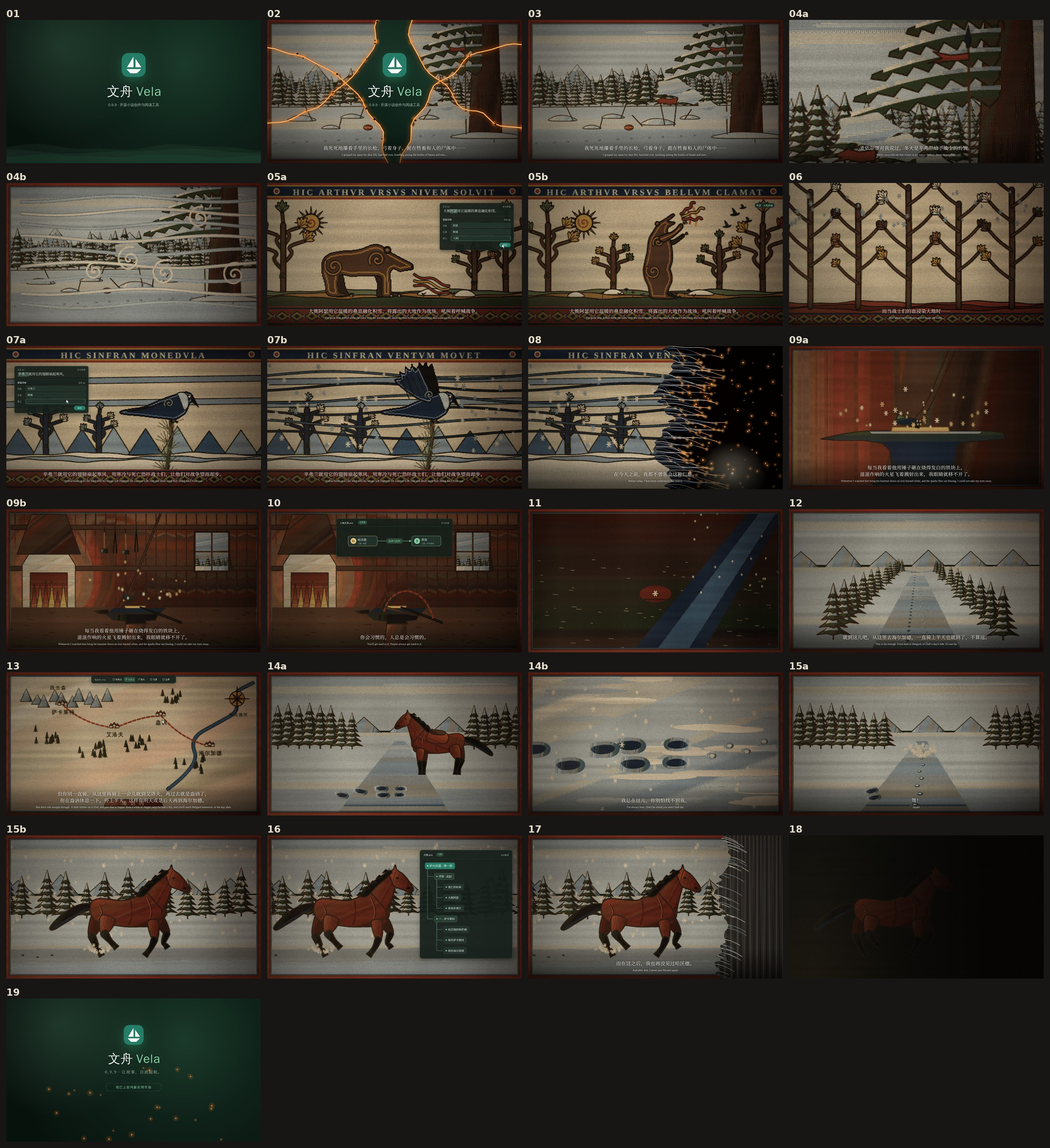
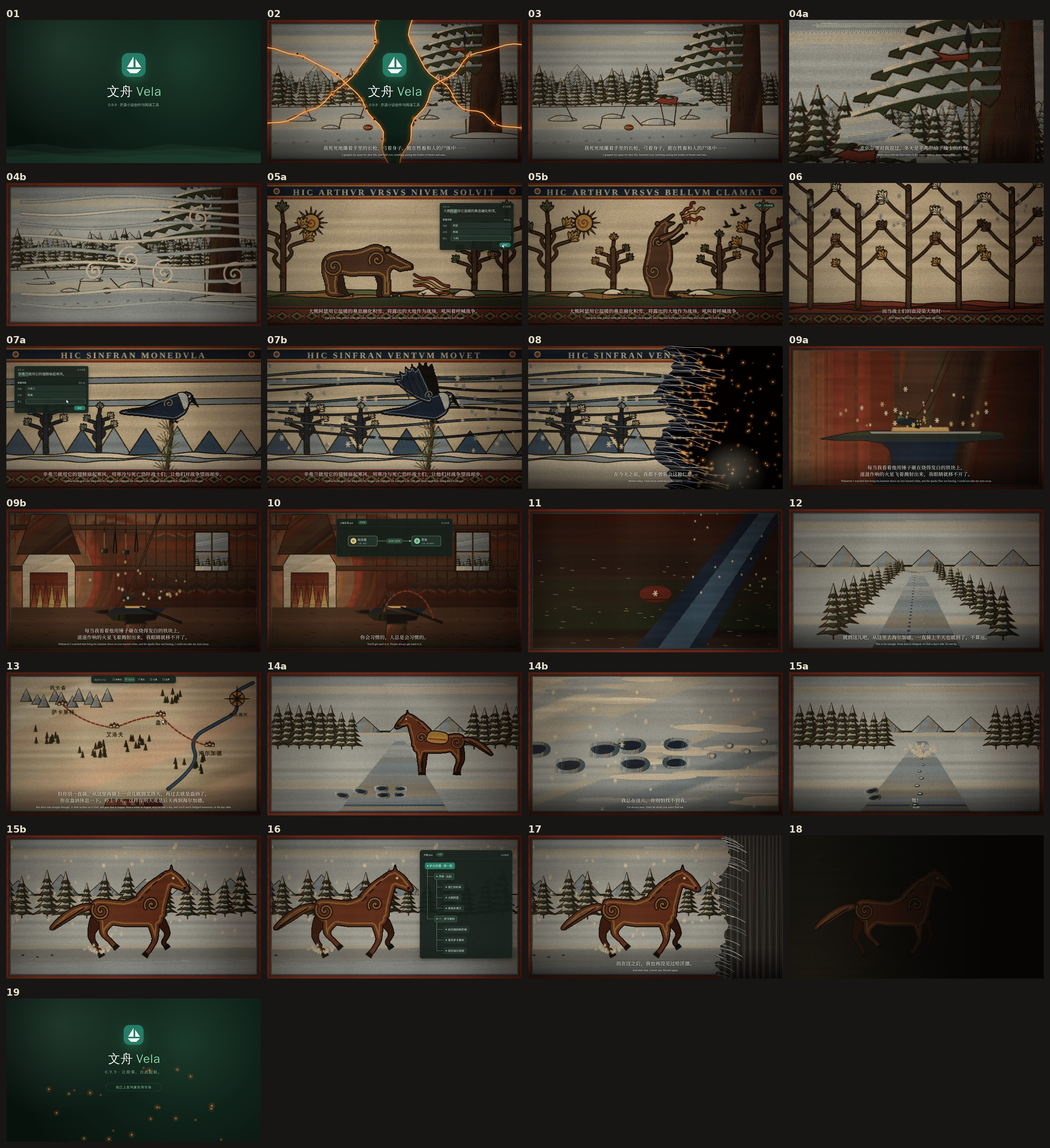
0.9.9 故事板：皮培按大熊阿瑟的织法抽象化
一整块枣红色剪影，深色勾边，赭黄内轮廓线，肩胯螺旋纹，远侧两腿织深色；
姿势不变。

Claude-Session: https://claude.ai/code/session_01KMfehctGQiHyA7uwHv9GKQ

diff --git a/promo/0.9.9/storyboard/frames.js b/promo/0.9.9/storyboard/frames.js
@@ -232,20 +232,23 @@ const GAITS={
   gallop:{farF:[[188,-196,232,-122,212,-70,224,-52],[52,32,24,22]],farH:[[-150,-214,-192,-110,-158,-36,-142,-8],[74,38,26,24]],nearF:[[152,-186,164,-92,142,-40,118,-8],[58,34,26,24]],nearH:[[-96,-206,-124,-124,-86,-76,-62,-50],[84,40,26,24]]},
   stand:{farF:[[124,-186,120,-92,124,-40,126,-6],[50,32,24,22]],farH:[[-148,-212,-178,-108,-156,-40,-152,-6],[72,38,26,24]],nearF:[[152,-186,158,-92,154,-40,152,-6],[58,34,26,24]],nearH:[[-110,-210,-150,-112,-130,-40,-126,-6],[84,40,26,24]]},
 };
-function pipeLeg([p,w],far){const ramp=far?[DYE.bay,DYE.bayD,DYE.umber]:R.bay;mshape(limbPts(p.slice(0,4),w.slice(0,2)),ramp,{ang:.2});mshape(limbPts(p.slice(2),w.slice(1)),R.black,{ang:.2});
-  const n=p.length,x=p[n-2],y=p[n-1],dx=x-p[n-4],dy=y-p[n-3],l=Math.hypot(dx,dy),ux=dx/l,uy=dy/l,h=w[3]*.6;mshape([x-uy*h,y+ux*h,x+uy*h,y-ux*h,x+ux*18+uy*h*1.2,y+uy*18-ux*h*1.2,x+ux*18-uy*h*1.2,y+uy*18+ux*h*1.2],R.black,{poly:true,lw:4});}
-function pipe(x,y,s,{face=1,gait='gallop',saddle=true,bridle=true}={}){at(x,y,s,face,()=>{const G=GAITS[gait];
-  pipeLeg(G.farF,1);pipeLeg(G.farH,1);
-  mshape(PIPE.tail,R.black,{ang:.6});for(let i=0;i<4;i++)wline([-210-i*10,-262+i*6,-300-i*14,-214+i*10,-390-i*6,-160+i*8],DYE.indigo,4);
-  mshape(PIPE.neck,R.bay,{ang:.5});mshape(PIPE.head,R.bay,{ang:.3});mshape(PIPE.barrel,R.bay,{ang:1.2,bias:-.05});
-  mfold([-150,-280,-120,-240,-150,-196],DYE.bayD,DYE.bayL);mfold([120,-320,150,-260,140,-200],DYE.bayD,DYE.bayL);mfold([30,-300,40,-230,20,-170],DYE.bayD);
-  mshape(PIPE.mane,R.black,{ang:.6});for(let i=0;i<5;i++){const k=i/4,mx=lerp(80,224,k),my=lerp(-340,-466,k);mshape([mx,my,mx-40,my+10,mx-22,my-10],R.black,{poly:true,lw:4});}
-  mshape(ell(330,-372,9,7),DYE.black,{line:null});mshape(ell(268,-428,8,6),DYE.umber,{line:null});
-  if(bridle){wline([254,-482,300,-404,348,-372],DYE.umber,5);wline([286,-372,334,-376],DYE.umber,5);}
-  if(saddle){mshape([-60,-312,70,-330,96,-250,-46,-236],R.madder,{ang:1.2});mshape([-40,-330,60,-344,64,-312,-30,-302],R.walnut,{ang:1});}
-  pipeLeg(G.nearH,0);pipeLeg(G.nearF,0);
-});}
-// Riga on horseback: crouched along the neck at the gallop, or upright at rest; hood up, his red cloak behind him.
+// Pipe in the manner of the bear: one bay silhouette (body, neck, head, mane, tail, near legs) edged in dark wool,
+// an ochre contour inside the edge, spirals at shoulder and haunch, the far legs a darker shape behind; black hooves.
+function hoofAt([p,w]){const n=p.length,x=p[n-2],y=p[n-1],dx=x-p[n-4],dy=y-p[n-3],l=Math.hypot(dx,dy),ux=dx/l,uy=dy/l,h=w[3]*.6;
+  wpoly([x-uy*h,y+ux*h,x+uy*h,y-ux*h,x+ux*20+uy*h*1.2,y+uy*20-ux*h*1.2,x+ux*20-uy*h*1.2,y+uy*20+ux*h*1.2],DYE.black,{lw:5});}
+function pipe(x,y,s,{face=1,gait='gallop',saddle=true,bridle=true}={}){
+  const G=GAITS[gait],T=f=>()=>at(x,y,s,face,f);
+  wFigure(T(()=>{for(const k of ['farF','farH'])shape(limbPts(G[k][0],G[k][1]),'#fff');}),{fill:DYE.bayD,inner:null});
+  T(()=>{hoofAt(G.farF);hoofAt(G.farH);})();
+  wFigure(T(()=>{for(const k of ['barrel','neck','head','mane','tail'])shape(PIPE[k],'#fff');for(const k of ['nearF','nearH'])shape(limbPts(G[k][0],G[k][1]),'#fff');}),{fill:DYE.bay,inner:DYE.ochre,band:[17*s,26*s]});
+  T(()=>{hoofAt(G.nearF);hoofAt(G.nearH);
+    for(const [cx,cy,r,d] of [[-136,-246,54,1],[146,-280,42,-1]]){wspiral(cx,cy,r,DYE.black,{lw:20,dir:d});wspiral(cx,cy,r,DYE.ochre,{lw:9,dir:d});}
+    for(let i=0;i<4;i++){const k=i/3;wline([lerp(96,214,k),lerp(-322,-452,k),lerp(70,190,k),lerp(-300,-430,k)],DYE.black,6);}
+    for(let i=0;i<3;i++)wline([-230-i*14,-262+i*8,-310-i*16,-214+i*12,-392-i*8,-158+i*10],DYE.black,6);
+    wdisc(330,-372,8,DYE.black,{line:null});wdisc(266,-428,7,DYE.bone,{line:null});
+    if(bridle){wline([254,-482,300,-404,348,-372],DYE.black,6);wline([286,-372,334,-376],DYE.black,6);}
+    if(saddle){wshape([-60,-312,70,-330,96,-250,-46,-236],DYE.weld,{lw:7});wline([-50,-262,86,-272],DYE.madder,10);}})();
+}
 // ================================================================ 12 · the road out of the village, from behind them
 function winterVerdure({horizon=430}={}){
   mshape([-20,-20,W+20,-20,W+20,horizon+20,-20,horizon+20],[DYE.bone,DYE.skyL,DYE.sky],{poly:true,line:null,ang:-1.57});for(const [y,w] of [[90,900],[170,1300],[250,700]]){const x=hash(y)*W*.6;mshape([x,y,x+w,y-10,x+w+60,y+6,x+40,y+14],DYE.skyL,{poly:true,line:null});}

diff --git a/promo/0.9.9/storyboard.md b/promo/0.9.9/storyboard.md
@@ -38,7 +38,7 @@
 
 ### 造型
 
-- **皮培（马）：** 枣红色，按马的真实解剖关系，用三色阶织出明暗。口鼻、四肢下段、鬃毛与尾巴是黑色。奔跑姿势按参考照片：近侧前腿着地并略向后，远侧前腿屈起，近侧后腿向前收到腹下，远侧后腿在后方蹬地。
+- **皮培（马）：** 与大熊阿瑟同样抽象：一整块枣红色剪影（鬃毛与尾巴并入轮廓），深色毛线勾边，内侧一道赭黄内轮廓线，肩与胯织螺旋纹，远侧两腿织成更深的颜色压在身后，蹄为黑色。奔跑姿势按参考照片：近侧前腿着地并略向后，远侧前腿屈起，近侧后腿向前收到腹下，远侧后腿在后方蹬地。
 - **辛弗兰（寒鸦）：** 按参考照片改得更修长：长翼收拢、长尾、粗喙，颈部一圈浅色领羽，停在一根松枝的顶端。仍保留维京织法的内轮廓与螺旋纹。
 - **大熊阿瑟：** 不变。
 
